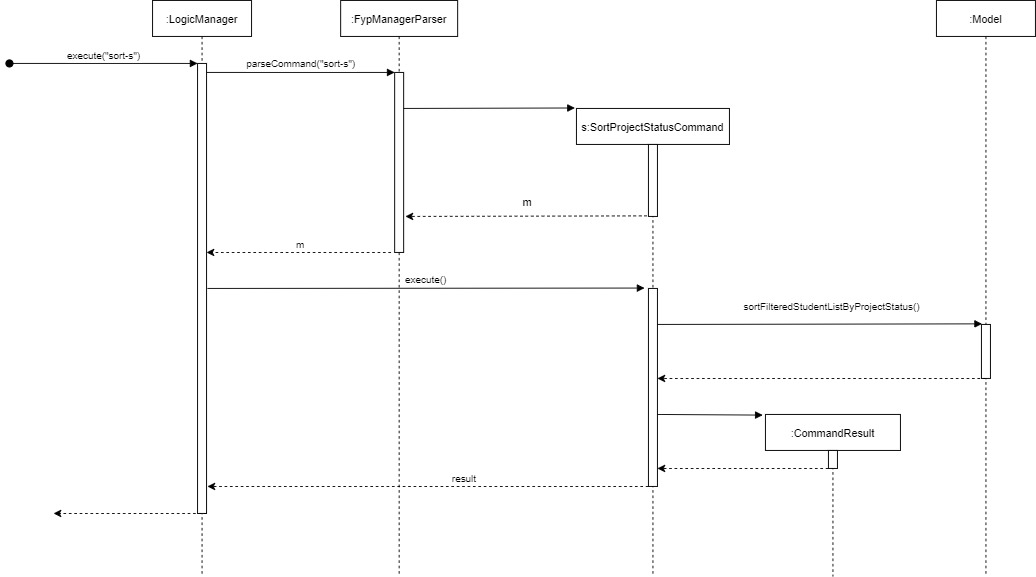
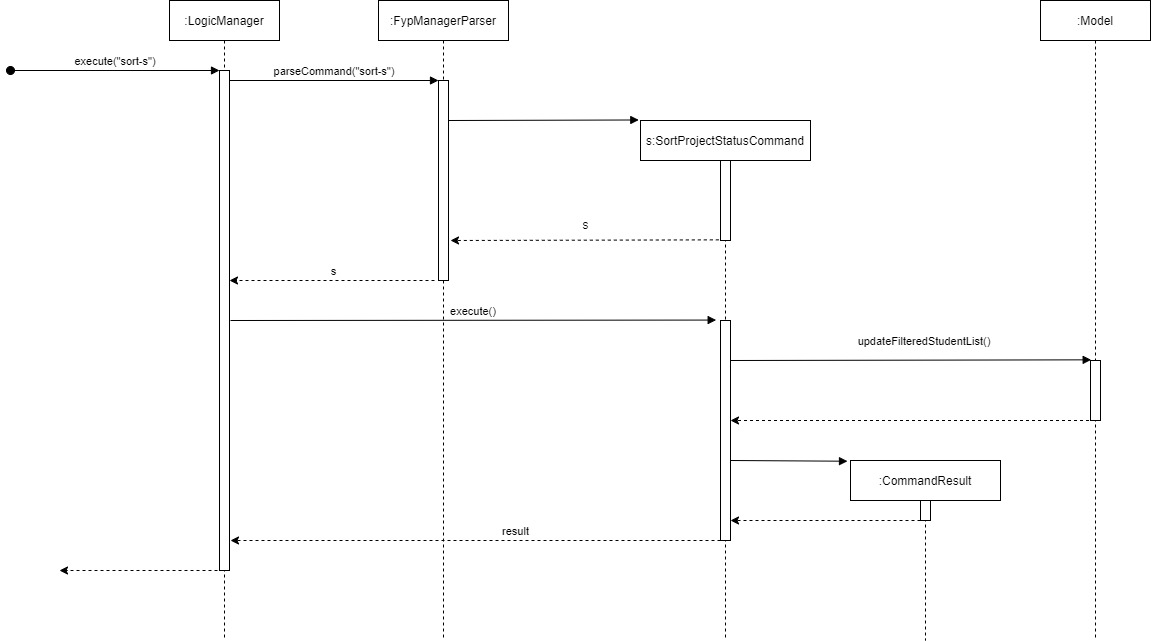
Update Sort Command sequence diagrams in DG

diff --git a/src/main/java/jeryl/fyp/logic/commands/SortSpecialisationCommand.java b/src/main/java/jeryl/fyp/logic/commands/SortSpecialisationCommand.java
@@ -1,6 +1,7 @@
 package jeryl.fyp.logic.commands;
 
 import static java.util.Objects.requireNonNull;
+import static jeryl.fyp.model.Model.PREDICATE_SHOW_ALL_STUDENTS;
 
 import jeryl.fyp.model.Model;
 
@@ -21,6 +22,7 @@ public class SortSpecialisationCommand extends Command {
     @Override
     public CommandResult execute(Model model) {
         requireNonNull(model);
+        model.updateFilteredStudentList(PREDICATE_SHOW_ALL_STUDENTS);
         return new CommandResult(MESSAGE_SUCCESS, false, false, true, false);
     }
 

diff --git a/src/main/java/jeryl/fyp/logic/commands/SortProjectStatusCommand.java b/src/main/java/jeryl/fyp/logic/commands/SortProjectStatusCommand.java
@@ -1,6 +1,7 @@
 package jeryl.fyp.logic.commands;
 
 import static java.util.Objects.requireNonNull;
+import static jeryl.fyp.model.Model.PREDICATE_SHOW_ALL_STUDENTS;
 
 import jeryl.fyp.model.Model;
 
@@ -21,6 +22,7 @@ public class SortProjectStatusCommand extends Command {
     @Override
     public CommandResult execute(Model model) {
         requireNonNull(model);
+        model.updateFilteredStudentList(PREDICATE_SHOW_ALL_STUDENTS);
         return new CommandResult(MESSAGE_SUCCESS, false, false, false, true);
     }
 

diff --git a/docs/DeveloperGuide.md b/docs/DeveloperGuide.md
@@ -338,7 +338,7 @@ error message will be shown.
 
 The following sequence diagram shows how the MarkCommand operation works:
 
-![MarkCommandSequenceDiagram](images/MarkCommandSequenceDiagram.png)
+![MarkCommandSequenceDiagram](images/MarkCommandSequenceDiagram.jpg)
 
 #### Design considerations:
 
